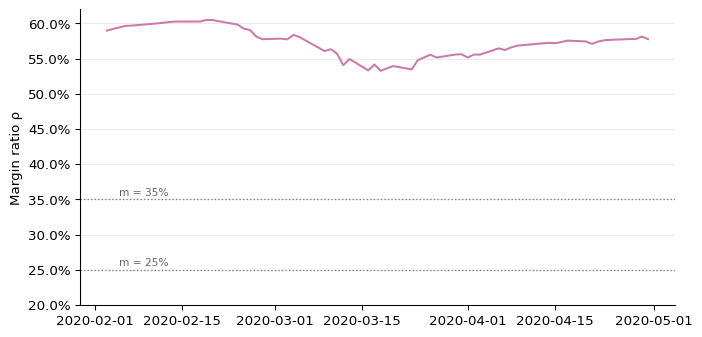
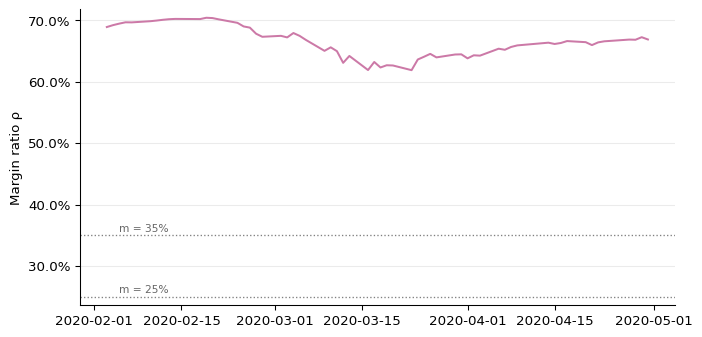
feat: revise views; edit prose; change R_B

diff --git a/sandbox/portfolio_optimization/src/data.py b/sandbox/portfolio_optimization/src/data.py
@@ -30,8 +30,9 @@ Bonds: US Treasury 7-10y, EUR-hedged. The vehicle is a EUR-hedged UCITS ETF on t
       history): its dividend-adjusted close is the USD total-return level (Yahoo
       daily, snapshot 2026-08-08, from 2002-07), and month-end USD returns plus the
       carry from FRED short rates (1-month UST DGS1MO, euro overnight
-      IRSTCI01EZM156N) give the hedged EUR return. Validated at 0.99 monthly
-      correlation against the live hedged ETFs (7USH 2023+, CEMF 2025+).
+      IRSTCI01EZM156N) give the hedged EUR return. Validated against the live
+      hedged ETF 7USH (2023+) on both correlation and level by
+      ``hedge_tracking_check``.
 
 Trend: SG CTA Index, the live net-of-fee managed-futures benchmark that the
       vehicle DBMFE replicates, from SG Prime Services (snapshot 2026-07-25).
@@ -69,6 +70,14 @@ FRED_USD_1M_URL = "https://fred.stlouisfed.org/graph/fredgraph.csv?id=DGS1MO"
 FRED_USD_1M_RAW = DATA_DIR / "fred_DGS1MO_2026-08-08.csv"
 FRED_EUR_ON_URL = "https://fred.stlouisfed.org/graph/fredgraph.csv?id=IRSTCI01EZM156N"
 FRED_EUR_ON_RAW = DATA_DIR / "fred_IRSTCI01EZM156N_2026-08-08.csv"
+
+# Live EUR-hedged UCITS ETF, used only to validate the reconstructed hedge.
+# Month-end dividend-adjusted closes from Yahoo, snapshot 2026-08-26.
+LIVE_HEDGED_URL = (
+    "https://query1.finance.yahoo.com/v8/finance/chart/{ticker}"
+    "?range=5y&interval=1mo&events=div%2Csplit"
+)
+LIVE_HEDGED_RAW = {"7USH": DATA_DIR / "yahoo_7USH_monthly_2026-08-26.json"}
 
 SG_CTA_RAW = DATA_DIR / "sg_cta_index_2026-07-25.xls"
 ECB_EURUSD_URL = "https://data-api.ecb.europa.eu/service/data/EXR/D.USD.EUR.SP00.A?format=csvdata"
@@ -220,12 +229,46 @@ def ustsy_hedged_monthly_returns(
         hedged = local_usd_return + (i_EUR - i_USD) / 12
 
     ``local_usd_return`` is IEF's month-end total return (USD); the carry is set at
-    the start of the month (prior month-end rates). Validated at 0.99 monthly
-    correlation against the live hedged ETFs 7USH (2023+) and CEMF (2025+).
+    the start of the month (prior month-end rates); ``hedge_tracking_check``
+    validates it against the live hedged ETF 7USH (2023+).
     """
     local = load_ief_usd_levels(ief_path).resample("ME").last().pct_change()
     carry = eur_minus_usd_carry(usd_path, eur_path).reindex(local.index).ffill().shift(1) / 12.0
     return (local + carry).dropna().rename("ustsy_hedged_ret")
+
+
+def live_hedged_monthly_returns(name: str) -> pd.Series:
+    """Month-end returns of a live EUR-hedged UCITS ETF.
+
+    ``{"date", "value"}`` records. Yahoo labels a monthly bar at the start of its
+    period, which the UTC offset lands on the prior month-end; the snapshot is
+    written already shifted onto the month the bar covers.
+    """
+    records = json.loads(LIVE_HEDGED_RAW[name].read_text())
+    index = pd.DatetimeIndex([pd.Timestamp(r["date"]) for r in records])
+    levels = pd.Series([r["value"] for r in records], index=index).sort_index()
+    return levels.pct_change().dropna().rename(name)
+
+
+def hedge_tracking_check() -> pd.DataFrame:
+    """Reconstructed hedge vs the live ETF: correlation and annualized level."""
+    study = ustsy_hedged_monthly_returns()
+    rows = {}
+    for name in LIVE_HEDGED_RAW:
+        joined = pd.concat(
+            {"study": study, "live": live_hedged_monthly_returns(name)}, axis=1
+        ).dropna()
+        annualized = (1.0 + joined).prod() ** (12.0 / len(joined)) - 1.0
+        rows[name] = {
+            "months": len(joined),
+            "from": f"{joined.index[0]:%Y-%m}",
+            "to": f"{joined.index[-1]:%Y-%m}",
+            "correlation": joined["study"].corr(joined["live"]),
+            "study (%/y)": annualized["study"],
+            "live (%/y)": annualized["live"],
+            "difference (bp/y)": (annualized["study"] - annualized["live"]) * 1e4,
+        }
+    return pd.DataFrame(rows).T
 
 
 def download_ecb_eurusd(dest: Path = EURUSD_RAW) -> Path:

diff --git a/sandbox/portfolio_optimization/src/mu.py b/sandbox/portfolio_optimization/src/mu.py
@@ -1,8 +1,8 @@
-"""Expected returns (mu) and the real rate constants for the study.
+"""Expected returns (mu), vehicle costs, and the real rate constants for the study.
 
 From-source real, EUR, ~5-10y views, used as-is (no shrinkage; the Black-Litterman
 step supplies the humility). See the "Expected returns" section of the qmd for
-each sleeve's derivation.
+each sleeve's derivation and for how ``TERS`` is applied.
 """
 
 from __future__ import annotations
@@ -15,13 +15,21 @@ VIEWS_REAL = {
     # P-CAEY authors' (Haghani & White) published live capital-market
     # assumption, built region by region (US ~2.9%, ex-US ~5.8%, cap-weighted).
     "equity": 0.0403,
-    # IEF 4.60% USD YTM - 1.6pp EUR hedge cost (US-EUR short diff) - 2.0% inflation ~= 1.0% real
-    "bonds": 0.010,
+    # 4.54% YTM + 0.34pp roll-down - 1.60pp EUR hedge - 2.0% inflation (2026-08-25)
+    "bonds": 0.0128,
     # forward: 0.2 net Sharpe x ~12.5% EUR-unhedged sleeve vol + ~0.19% real cash ~= 2.7%;
     # between the gross ceiling (CFM/HOP 0.72-0.76) and the live SG-CTA floor (~0.13).
     # Cayas assumes a comparable ~0.25 Sharpe for managed futures.
     "trend": 0.0270,
     "gold": 0.0000,  # long-run real return = inflation (Ilmanen)
+}
+
+# Vehicle ongoing charges, deducted from the BL posterior.
+TERS = {
+    "equity": 0.0020,  # iShares MSCI ACWI UCITS ETF USD (Acc), IE00B6R52259
+    "bonds": 0.0010,  # iShares $ Tsy Bond 7-10yr UCITS ETF EUR Hedged, IE000K1VI152
+    "trend": 0.0000,  # DBMFE's charge is already inside the view
+    "gold": 0.0012,  # iShares Physical Gold ETC, IE00B4ND3602
 }
 
 # Real RISK-FREE cash rate: the collateral yield / prior anchor.
@@ -32,12 +40,12 @@ VIEWS_REAL = {
 RF_REAL = 0.0019
 
 # Real BOX-SPREAD borrowing rate that finances the leverage (leverage.py):
-# 3-month Euribor 2.524% (euribor-rates.eu, 2026-08-21) + 0.5 pp box spread
-# (Cayas's central assumption, "MSCI World ... Cayas fait (bien) mieux") - 2.0%
-# inflation ~= 1.02% real. Distinct from RF_REAL: the box is a ~3-month loan, so
-# its base is the 3-month rate and the +0.5 pp is the box's spread over it; the
+# 3-month Euribor 2.524% (euribor-rates.eu, 2026-08-21) + 0.3 pp box spread
+# (realistic EUR ESTX50 execution premium; Cayas quotes +0.1-0.5, +0.5 prudent) - 2.0%
+# inflation ~= 0.82% real. Distinct from RF_REAL: the box is a ~3-month loan, so
+# its base is the 3-month rate and the +0.3 pp is the box's spread over it; the
 # prior / tangency / collateral instead earn the overnight risk-free.
-BOX_REAL = 0.0102
+BOX_REAL = 0.0082
 
 
 def expected_returns(cov: pd.DataFrame | None = None) -> pd.Series:

diff --git a/sandbox/portfolio_optimization/src/black_litterman.py b/sandbox/portfolio_optimization/src/black_litterman.py
@@ -1,8 +1,9 @@
 """Black-Litterman engine: equilibrium prior + views -> posterior expected returns.
 
-The posterior mu feeds ``composition.tangency_weights``. All figures real and
-EUR-consistent: the caps only supply dimensionless market weights, and the prior
-is struck at ``mu.RF_REAL`` so the posterior is a real return. See the "Expected
+The posterior mu, net of vehicle fees, feeds ``composition.tangency_weights``.
+All figures real and EUR-consistent: the caps only supply dimensionless market
+weights, and the prior is struck at ``mu.RF_REAL`` so the posterior is a real
+return. See the "Expected
 returns" section of the qmd for the choices behind the constants below.
 """
 
@@ -12,7 +13,7 @@ import pandas as pd
 from pypfopt import black_litterman
 from pypfopt.black_litterman import BlackLittermanModel
 
-from mu import RF_REAL, VIEWS_REAL
+from mu import RF_REAL, TERS, VIEWS_REAL
 
 # Market caps (USD tn, 2026; only the ratios enter). Trend (managed futures) is
 # zero-net-supply, so it has no cap: its prior falls out of the reverse-opt as
@@ -78,5 +79,15 @@ def bl_model(cov: pd.DataFrame) -> BlackLittermanModel:
 
 
 def posterior_returns(cov: pd.DataFrame) -> pd.Series:
-    """Black-Litterman posterior real expected returns (the MVO input)."""
+    """Black-Litterman posterior real expected returns, gross of vehicle fees."""
     return bl_model(cov).bl_returns().reindex(cov.index).rename("mu")
+
+
+def vehicle_fees(index: pd.Index) -> pd.Series:
+    """Ongoing charge of each sleeve's vehicle, ordered to match ``index``."""
+    return pd.Series(TERS).reindex(index).fillna(0.0).rename("ter")
+
+
+def posterior_net_returns(cov: pd.DataFrame) -> pd.Series:
+    """Posterior returns net of vehicle fees -- the MVO input."""
+    return (posterior_returns(cov) - vehicle_fees(cov.index)).rename("mu")

diff --git a/sandbox/portfolio_optimization/src/stress.py b/sandbox/portfolio_optimization/src/stress.py
@@ -40,10 +40,10 @@ import pandas as pd
 
 # Nominal financing base: 3-month Euribor (2.524%, euribor-rates.eu, 2026-08-21),
 # the rate a rolled ~3-month box borrows at. The sweep adds the box spread on top
-# (Cayas's central case is +0.5 pp; +1 pp is a severe stress). Real equivalent is
+# (realistic ~+0.3 pp; Cayas +0.1-0.5, +0.5 pp conservative). Real equivalent is
 # mu.BOX_REAL.
 EURIBOR3M_NOMINAL = 0.02524
-FINANCING_SPREADS = (0.005, 0.010)
+FINANCING_SPREADS = (0.003, 0.005)
 
 MAINTENANCE_RATIOS = (0.25, 0.30, 0.35)  # 25% ~ typical UCITS; 35% deliberately stressed
 
